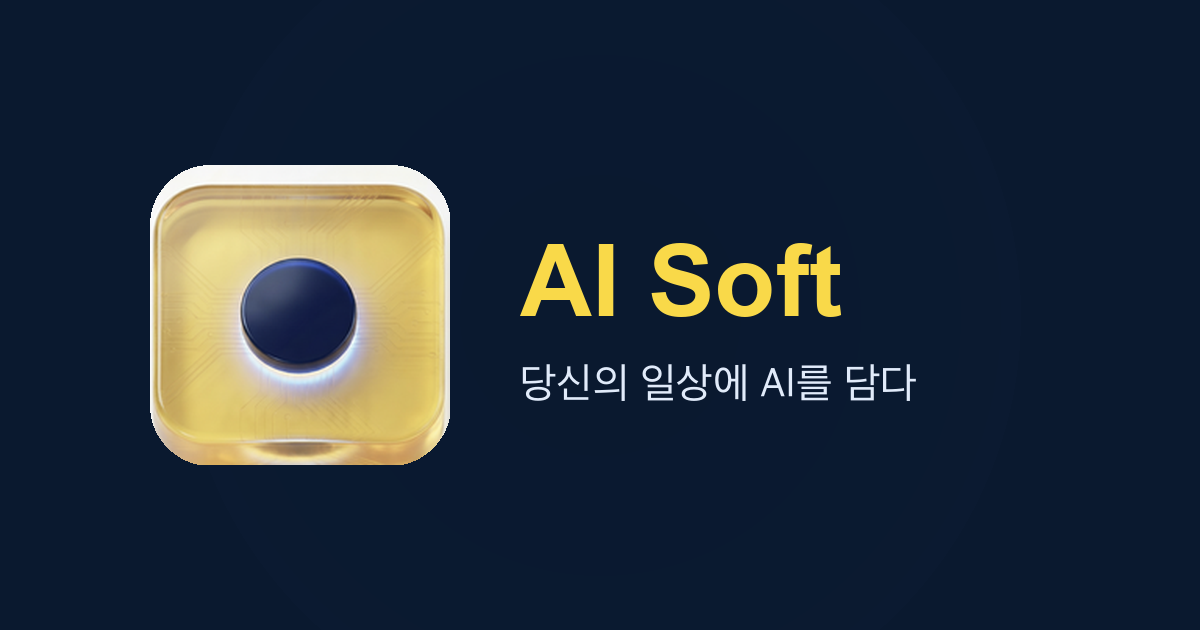
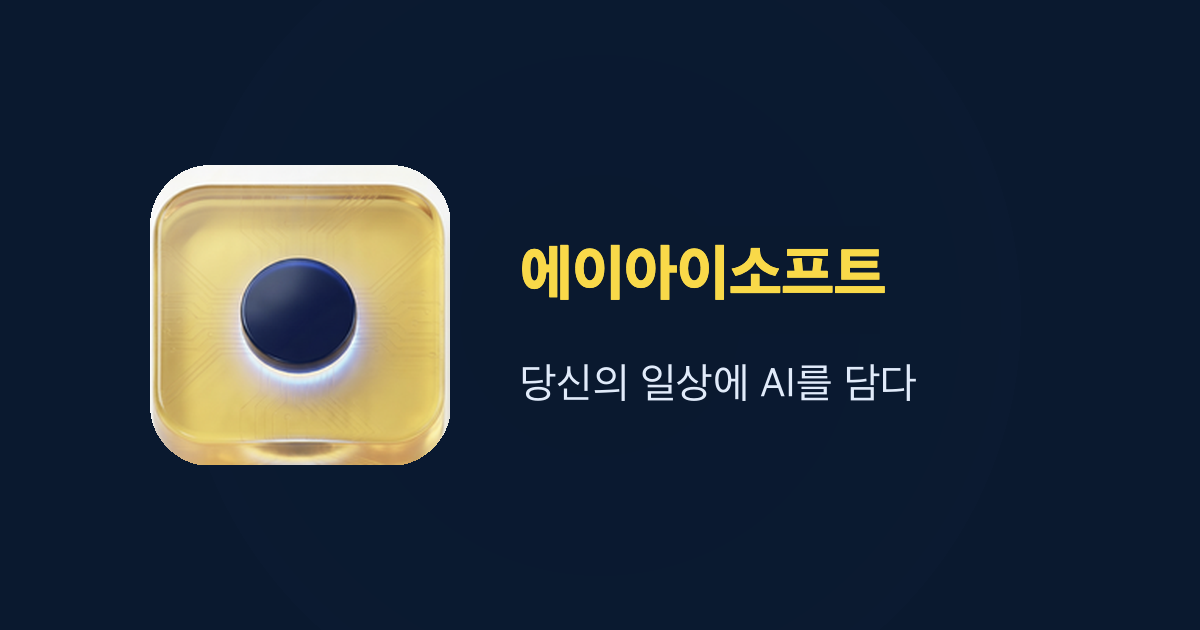
feat(brand): 표기 전환 AI Soft → 에이아이소프트
- 로고·타이틀·푸터·회사정보·메타태그(og/JSON-LD) 국문 상호로 통일
- 한글 로고 타이포 보정: Noto Sans KR 폴백, 자간 완화, 워드마크 clamp 재산정
- SEO 유지 목적 잔존: keywords 병기, JSON-LD alternateName, 로고 SVG aria-label
- og-image 국문 워드마크로 재생성

Changed region(s): [[0.4317, 0.3619, 0.74, 0.5127]]

diff --git a/index.html b/index.html
@@ -3,16 +3,16 @@
   <head>
     <meta charset="UTF-8" />
     <meta name="viewport" content="width=device-width, initial-scale=1.0" />
-    <title>AI Soft — 당신의 일상에 AI를 담다</title>
+    <title>에이아이소프트 — 당신의 일상에 AI를 담다</title>
     <meta
       name="description"
-      content="AI Soft는 myTravel(AI 여행 일정), myPet(반려동물 펫 시설·AI 상담), 내새끼(셀럽 뉴스), myToday(마음 습관 다이어리) 등 일상을 더 똑똑하게 만드는 AI 앱 서비스를 만듭니다. 대표 박훈재."
+      content="에이아이소프트는 myTravel(AI 여행 일정), myPet(반려동물 펫 시설·AI 상담), 내새끼(셀럽 뉴스), myToday(마음 습관 다이어리) 등 일상을 더 똑똑하게 만드는 AI 앱 서비스를 만듭니다. 대표 박훈재."
     />
     <meta
       name="keywords"
       content="AI Soft, 에이아이소프트, myTravel, 마이트래블, AI 여행 일정, myPet, 마이펫, 반려동물 앱, 펫 시설, 내새끼, 셀럽 뉴스, myToday, 마이투데이, 마음 습관 다이어리, 기분 기록, 습관 앱, AI 앱, AI 앱 스튜디오, 박훈재"
     />
-    <meta name="author" content="AI Soft (박훈재)" />
+    <meta name="author" content="에이아이소프트 (박훈재)" />
     <meta name="robots" content="index, follow" />
     <link rel="canonical" href="https://aisoft-iota.vercel.app/" />
 
@@ -35,25 +35,25 @@
 
     <!-- Open Graph (카카오톡·페이스북·네이버 공유 카드) -->
     <meta property="og:type" content="website" />
-    <meta property="og:site_name" content="AI Soft" />
-    <meta property="og:title" content="AI Soft — 당신의 일상에 AI를 담다" />
+    <meta property="og:site_name" content="에이아이소프트" />
+    <meta property="og:title" content="에이아이소프트 — 당신의 일상에 AI를 담다" />
     <meta
       property="og:description"
-      content="myTravel, myPet, 내새끼, myToday. AI Soft의 AI 앱 서비스를 한눈에."
+      content="myTravel, myPet, 내새끼, myToday. 에이아이소프트의 AI 앱 서비스를 한눈에."
     />
     <meta property="og:locale" content="ko_KR" />
     <meta property="og:url" content="https://aisoft-iota.vercel.app/" />
     <meta property="og:image" content="https://aisoft-iota.vercel.app/og-image.png" />
     <meta property="og:image:width" content="1200" />
     <meta property="og:image:height" content="630" />
-    <meta property="og:image:alt" content="AI Soft 로고 — 당신의 일상에 AI를 담다" />
+    <meta property="og:image:alt" content="에이아이소프트 로고 — 당신의 일상에 AI를 담다" />
 
     <!-- Twitter Card -->
     <meta name="twitter:card" content="summary_large_image" />
-    <meta name="twitter:title" content="AI Soft — 당신의 일상에 AI를 담다" />
+    <meta name="twitter:title" content="에이아이소프트 — 당신의 일상에 AI를 담다" />
     <meta
       name="twitter:description"
-      content="myTravel, myPet, 내새끼, myToday. AI Soft의 AI 앱 서비스를 한눈에."
+      content="myTravel, myPet, 내새끼, myToday. 에이아이소프트의 AI 앱 서비스를 한눈에."
     />
     <meta name="twitter:image" content="https://aisoft-iota.vercel.app/og-image.png" />
 
@@ -75,7 +75,8 @@
           {
             "@type": "Organization",
             "@id": "https://aisoft-iota.vercel.app/#organization",
-            "name": "AI Soft",
+            "name": "에이아이소프트",
+            "alternateName": "AI Soft",
             "url": "https://aisoft-iota.vercel.app/",
             "logo": "https://aisoft-iota.vercel.app/icon-512.png",
             "image": "https://aisoft-iota.vercel.app/og-image.png",
@@ -93,7 +94,8 @@
             "@type": "WebSite",
             "@id": "https://aisoft-iota.vercel.app/#website",
             "url": "https://aisoft-iota.vercel.app/",
-            "name": "AI Soft",
+            "name": "에이아이소프트",
+            "alternateName": "AI Soft",
             "inLanguage": "ko-KR",
             "publisher": { "@id": "https://aisoft-iota.vercel.app/#organization" }
           }
@@ -109,9 +111,9 @@
     -->
     <noscript>
       <header>
-        <h1>AI Soft — 당신의 일상에 AI를 담다</h1>
+        <h1>에이아이소프트 — 당신의 일상에 AI를 담다</h1>
         <p>
-          AI Soft는 여행, 반려동물, 일상의 즐거움까지, 사람들의 매일을 더 똑똑하고
+          에이아이소프트는 여행, 반려동물, 일상의 즐거움까지, 사람들의 매일을 더 똑똑하고
           따뜻하게 만드는 AI 앱 서비스를 만듭니다. 대표 박훈재.
         </p>
       </header>

diff --git a/src/sections/About.module.css b/src/sections/About.module.css
@@ -109,14 +109,22 @@
   max-width: 60ch;
 }
 
-/* 거대 워드마크 — depth/위계용 배경 타이포 (네이비 위 골드 스트로크) */
+/* 거대 워드마크 — depth/위계용 배경 타이포 (네이비 위 골드 스트로크)
+   "에이아이소프트" 한글 7자(≈7em 폭) 기준으로 크기 산정:
+   가용폭 = 뷰포트 − 컨테이너 거터×2 − intro 패딩×2
+   (320px: ≈205px → 7자 최대 ≈29px, 1440px: ≈1024px → cap 92px 여유) */
 .wordmark {
   margin-top: auto;
-  font-family: var(--ais-font-display);
-  font-size: clamp(3rem, 1rem + 9vw, 7rem);
-  font-weight: 800;
-  letter-spacing: -0.02em;
-  line-height: 1;
+  /* Outfit은 라틴 전용 → 한글은 로드된 Noto Sans KR로 명시 폴백 */
+  font-family: 'Outfit', 'Noto Sans KR', system-ui, -apple-system, sans-serif;
+  font-size: clamp(1.7rem, 8.8vw - 0.25rem, 5.75rem);
+  font-weight: 800; /* Noto Sans KR은 700 매칭 */
+  /* 한글은 라틴 대비 자간 축소 여지가 적음 → -0.01em */
+  letter-spacing: -0.01em;
+  /* 한글 음절 중간 줄바꿈(어색한 랩) 방지 — 위 clamp가 넘침을 보장 차단 */
+  white-space: nowrap;
+  /* 한글 글리프 상하 여유 (line-height 1은 스트로크가 빡빡함) */
+  line-height: 1.1;
   color: transparent;
   -webkit-text-stroke: 1.5px rgba(249, 217, 73, 0.5);
   user-select: none;

diff --git a/src/sections/Technology.tsx b/src/sections/Technology.tsx
@@ -18,7 +18,7 @@ function assignRef<T>(ref: RefObject<T> | MutableRefObject<T | null>, node: T | 
 
 /**
  * Technology 섹션.
- * AI Soft의 핵심 기술 역량을 카드로 전시한다.
+ * 에이아이소프트의 핵심 기술 역량을 카드로 전시한다.
  * 강조 수치는 services.ts 데이터에서 도출하여 과장/허위를 배제한다.
  */
 
@@ -299,7 +299,7 @@ export function Technology() {
 
         <SectionHeader
           eyebrow="TECHNOLOGY"
-          title="AI Soft의 기술력"
+          title="에이아이소프트의 기술력"
           desc={`${SERVICE_COUNT}개의 서비스를 관통하는 AI·위치·다국어·크로스플랫폼 역량으로 일상의 문제를 단순하게 풉니다.`}
           id="technology-heading"
         />
@@ -309,7 +309,7 @@ export function Technology() {
           <img
             className={styles.bannerImg}
             src={trustTeam}
-            alt="AI Soft 팀이 협업하며 서비스를 설계하는 모습"
+            alt="에이아이소프트 팀이 협업하며 서비스를 설계하는 모습"
             width={1100}
             height={733}
             loading="lazy"

diff --git a/src/data/company.ts b/src/data/company.ts
@@ -1,12 +1,12 @@
-// AI Soft 회사 정보. (대표이사 이름, 연락 이메일 표기)
+// 에이아이소프트 회사 정보. (대표이사 이름, 연락 이메일 표기)
 // 주의: 연락처는 반드시 longpapa82@gmail.com 만 사용한다(다른 메일 계정 사용 금지).
 // 주소는 사용자 요청으로 표기하지 않는다.
 
 export const COMPANY = {
-  name: 'AI Soft',
+  name: '에이아이소프트',
   slogan: '당신의 일상에 AI를 담다',
   intro:
-    'AI Soft는 여행, 반려동물, 일상의 즐거움까지, 사람들의 매일을 더 똑똑하고 따뜻하게 만드는 AI 앱 서비스를 만듭니다.',
+    '에이아이소프트는 여행, 반려동물, 일상의 즐거움까지, 사람들의 매일을 더 똑똑하고 따뜻하게 만드는 AI 앱 서비스를 만듭니다.',
   ceo: '박훈재',
   email: 'longpapa82@gmail.com',
 } as const;

diff --git a/src/sections/Hero.tsx b/src/sections/Hero.tsx
@@ -127,7 +127,7 @@ export function Hero() {
           </div>
 
           {/* 미니 스탯 칩 — services.ts 도출 값(근거 있는 수치만) */}
-          <ul className={styles.statChips} aria-label="AI Soft 현황">
+          <ul className={styles.statChips} aria-label="에이아이소프트 현황">
             <li className={styles.statChip}>
               <span className={styles.statChipIcon} aria-hidden="true">
                 ◈
@@ -212,7 +212,7 @@ export function Hero() {
           </div>
 
           {/* 언락된 캐릭터 슬롯 — 레어도 테두리 + 미니 스탯 */}
-          <ul className={styles.chips} aria-label="언락된 AI Soft 서비스">
+          <ul className={styles.chips} aria-label="언락된 에이아이소프트 서비스">
             {SERVICES_SORTED.map((service, i) => (
               <li
                 key={service.id}

diff --git a/src/sections/Header.tsx b/src/sections/Header.tsx
@@ -25,7 +25,7 @@ const NAV_ITEMS: NavItem[] = [
 const SCROLL_THRESHOLD = 24;
 
 /**
- * 상단 고정 헤더. 로고(AI Soft) + 앵커 메뉴.
+ * 상단 고정 헤더. 로고(에이아이소프트) + 앵커 메뉴.
  * 스크롤 시 배경 블러/보더가 강해지는 상태 전환(opacity/backdrop만 변경).
  * 모바일에서는 메뉴를 펼치는 토글 패널 제공.
  */
@@ -54,7 +54,7 @@ export function Header({ collected, total }: HeaderProps) {
           <span className={styles.logoMark} aria-hidden="true">
             <span className={styles.logoDot} />
           </span>
-          <span className={styles.logoText}>AI&nbsp;Soft</span>
+          <span className={styles.logoText}>에이아이소프트</span>
           <span className={styles.logoTag} aria-hidden="true">
             AI&nbsp;APP&nbsp;STUDIO
           </span>

diff --git a/src/sections/Footer.module.css b/src/sections/Footer.module.css
@@ -95,10 +95,13 @@
 }
 
 .logoText {
-  font-family: var(--ais-font-display);
-  font-weight: 800;
+  /* Outfit(디스플레이)은 라틴 전용 — 한글 "에이아이소프트"는 이미 로드된
+     Noto Sans KR로 명시적 폴백 (system-ui 폴백은 OS마다 들쭉날쭉함) */
+  font-family: 'Outfit', 'Noto Sans KR', system-ui, -apple-system, sans-serif;
+  font-weight: 800; /* Noto Sans KR은 700까지 로드 → 브라우저가 700 매칭 */
   font-size: 1.5rem;
-  letter-spacing: -0.02em;
+  /* 한글 자모 밀집 방지: -0.02em → -0.01em 완화 */
+  letter-spacing: -0.01em;
   color: #ffffff;
 }
 

diff --git a/src/sections/Footer.tsx b/src/sections/Footer.tsx
@@ -16,7 +16,7 @@ function primaryLink(links: {
 /**
  * 갤러리 벽 하단을 닫는 Footer — 하이테크 마감.
  * 네이비 잉크 표면 위에 회로 도트 + 골드 글로우로 시스템 패널처럼 닫는다.
- * 좌측: AI Soft 로고 + 슬로건, 회사 정보 요약(대표/이메일/주소).
+ * 좌측: 에이아이소프트 로고 + 슬로건, 회사 정보 요약(대표/이메일/주소).
  * 우측: 서비스 바로가기 + 정책 링크. 하단: 모노스페이스 시스템 카피.
  */
 export function Footer() {

diff --git a/src/styles/tokens.css b/src/styles/tokens.css
@@ -1,5 +1,5 @@
 /*
- * AI Soft 전역 디자인 토큰 — "하이테크 반도체/AI" 테마.
+ * 에이아이소프트 전역 디자인 토큰 — "하이테크 반도체/AI" 테마.
  * 베이스: 밝은 회백색 + 회로 도트 패턴. 잉크: Deep Navy. 포인트: Signal Gold.
  * 외피(--ais-*)만 하이테크. 서비스 카드는 자기 --svc-* 컬러를 유지(2계층).
  * 타이포: Outfit(디스플레이) / Inter(본문) / JetBrains Mono(테크 배지).

diff --git a/src/sections/Header.module.css b/src/sections/Header.module.css
@@ -92,7 +92,8 @@
 .logoText {
   font-size: 1.18rem;
   font-weight: 800;
-  letter-spacing: -0.03em;
+  /* 한글 로고 자간 — 라틴용(-0.03em)보다 완만하게 */
+  letter-spacing: -0.01em;
   color: var(--ais-text);
 }
 /* 모노스페이스 테크 태그라인(브랜드 옆 작은 시스템 라벨) */

diff --git a/src/data/services.ts b/src/data/services.ts
@@ -1,4 +1,4 @@
-// AI Soft 서비스 카탈로그.
+// 에이아이소프트 서비스 카탈로그.
 // 신규 서비스는 이 배열에 항목만 추가하면 쇼케이스/Features 등에 자동 반영된다.
 // (CLAUDE.md: "신규 서비스가 추가될 수 있는 형태로 개발")
 
